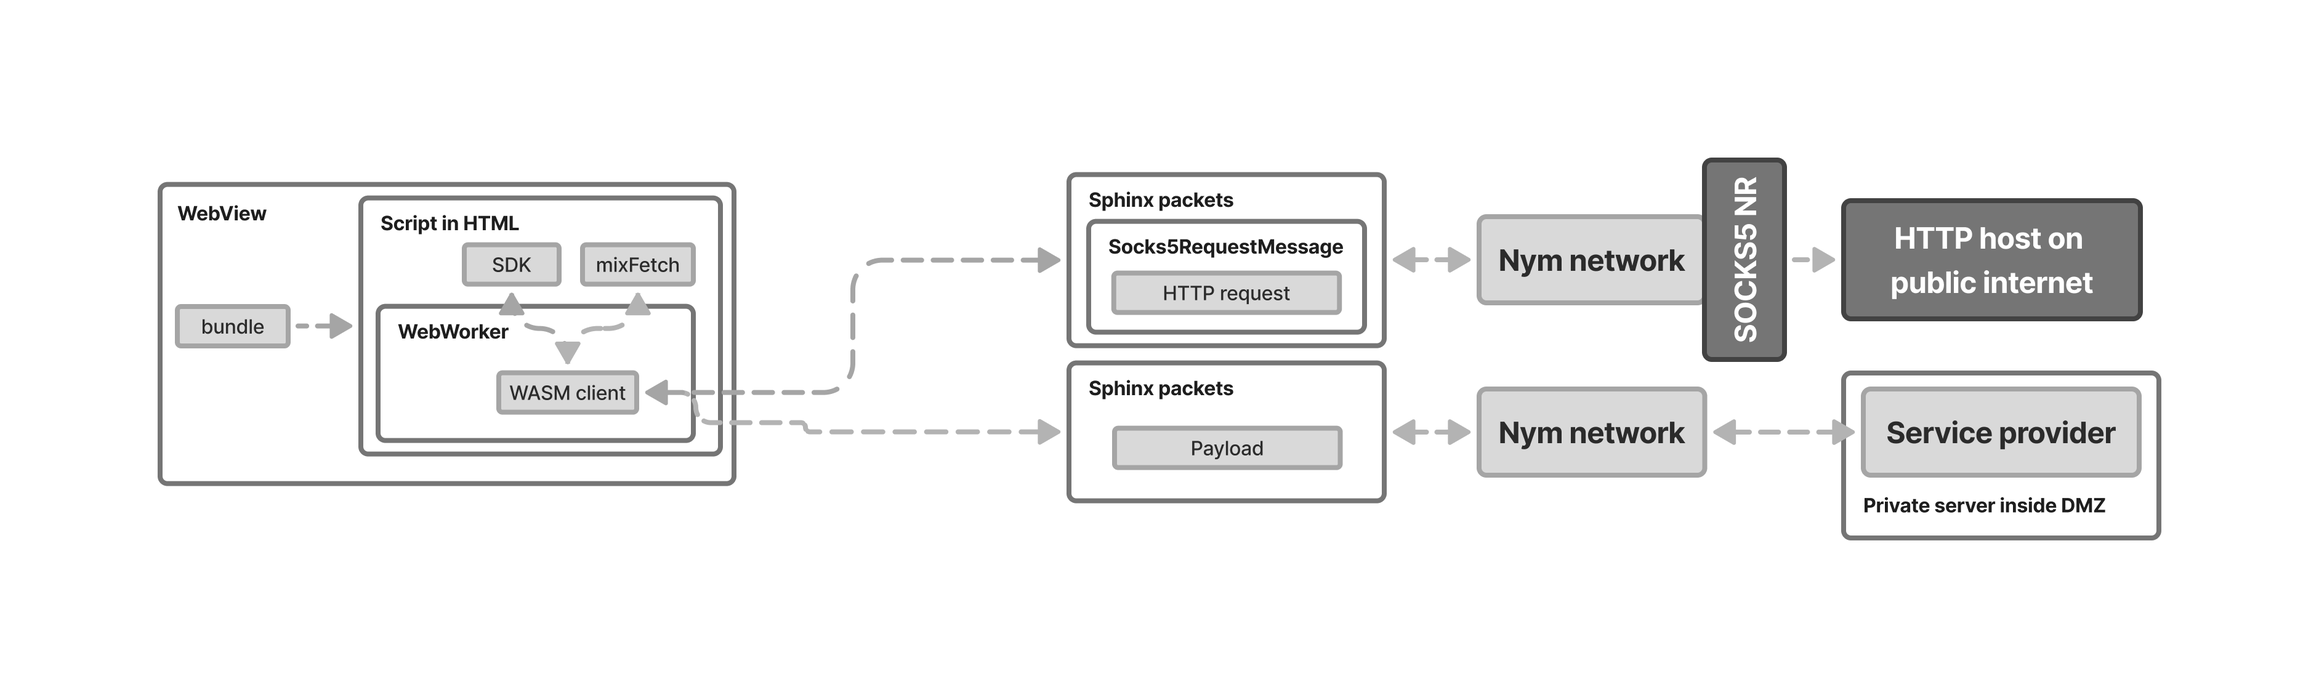
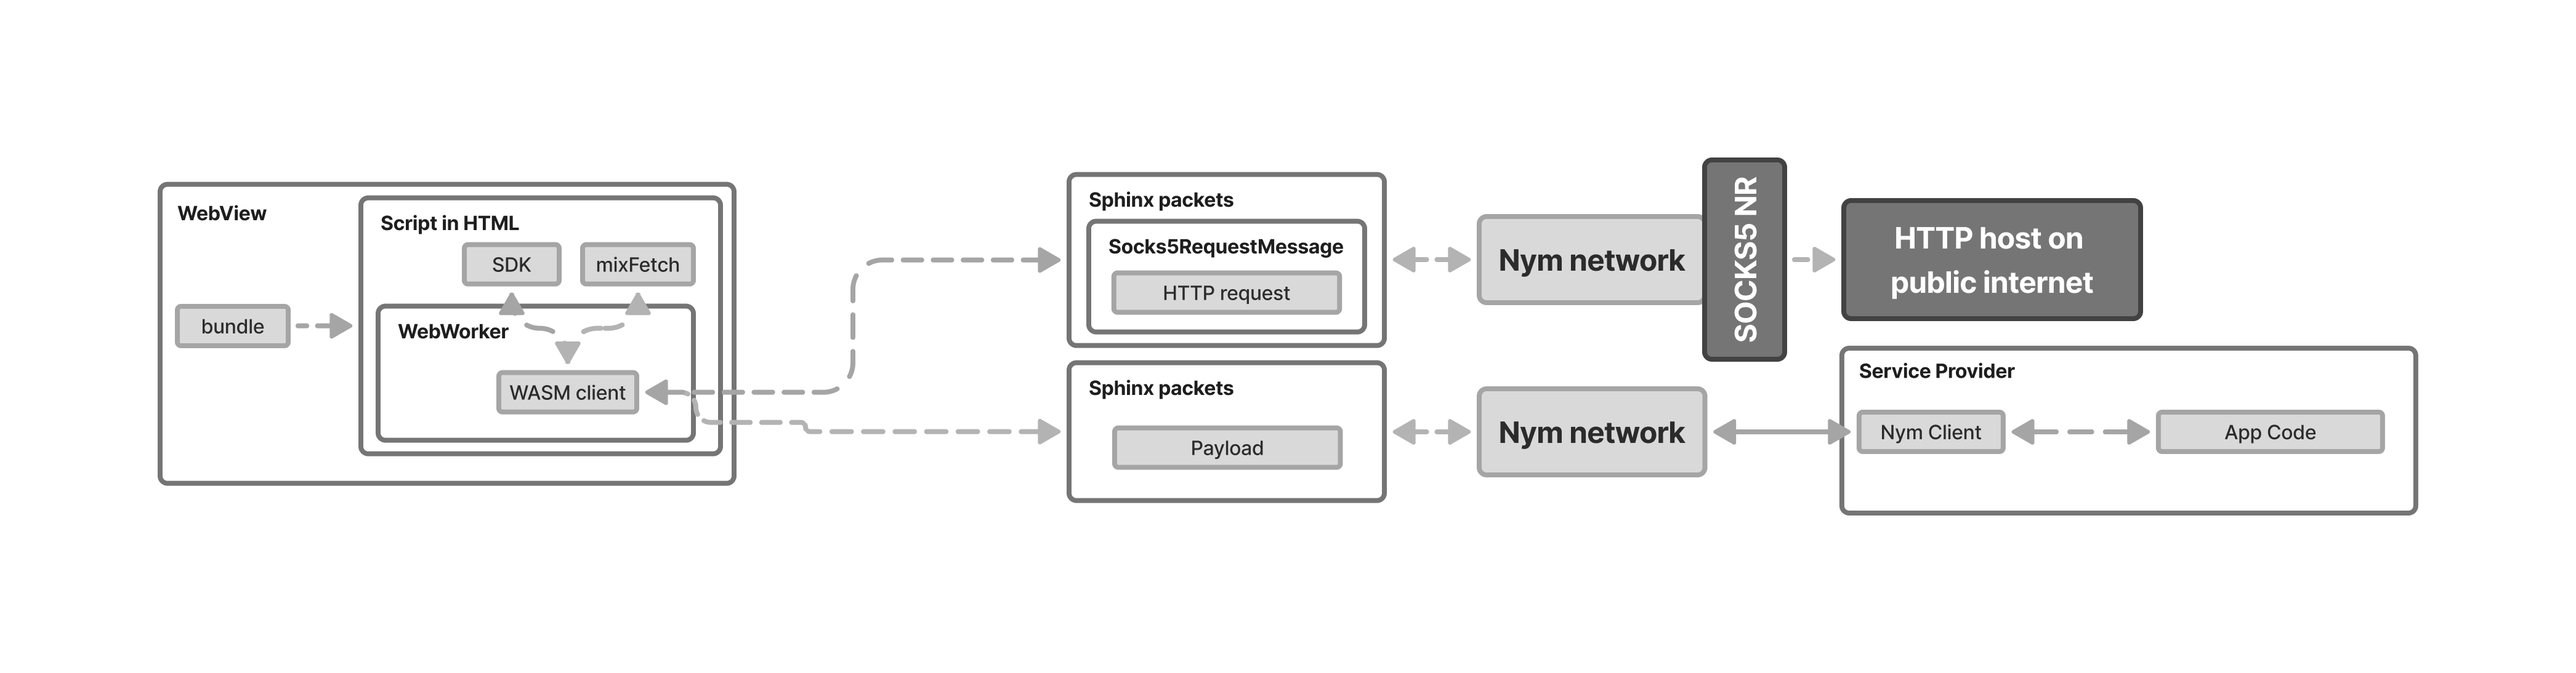
update integration docs + bit of overall restructure

Changed region(s): [[0.0621, 0.2176, 0.932, 0.7459], [0.7146, 0.7148, 0.932, 0.777]]

diff --git a/documentation/docs/components/outputs/api-scraping-outputs/time-now.md b/documentation/docs/components/outputs/api-scraping-outputs/time-now.md
@@ -1,1 +1,1 @@
-Tuesday, November 11th 2025, 13:59:52 UTC
+Tuesday, November 11th 2025, 16:42:11 UTC
